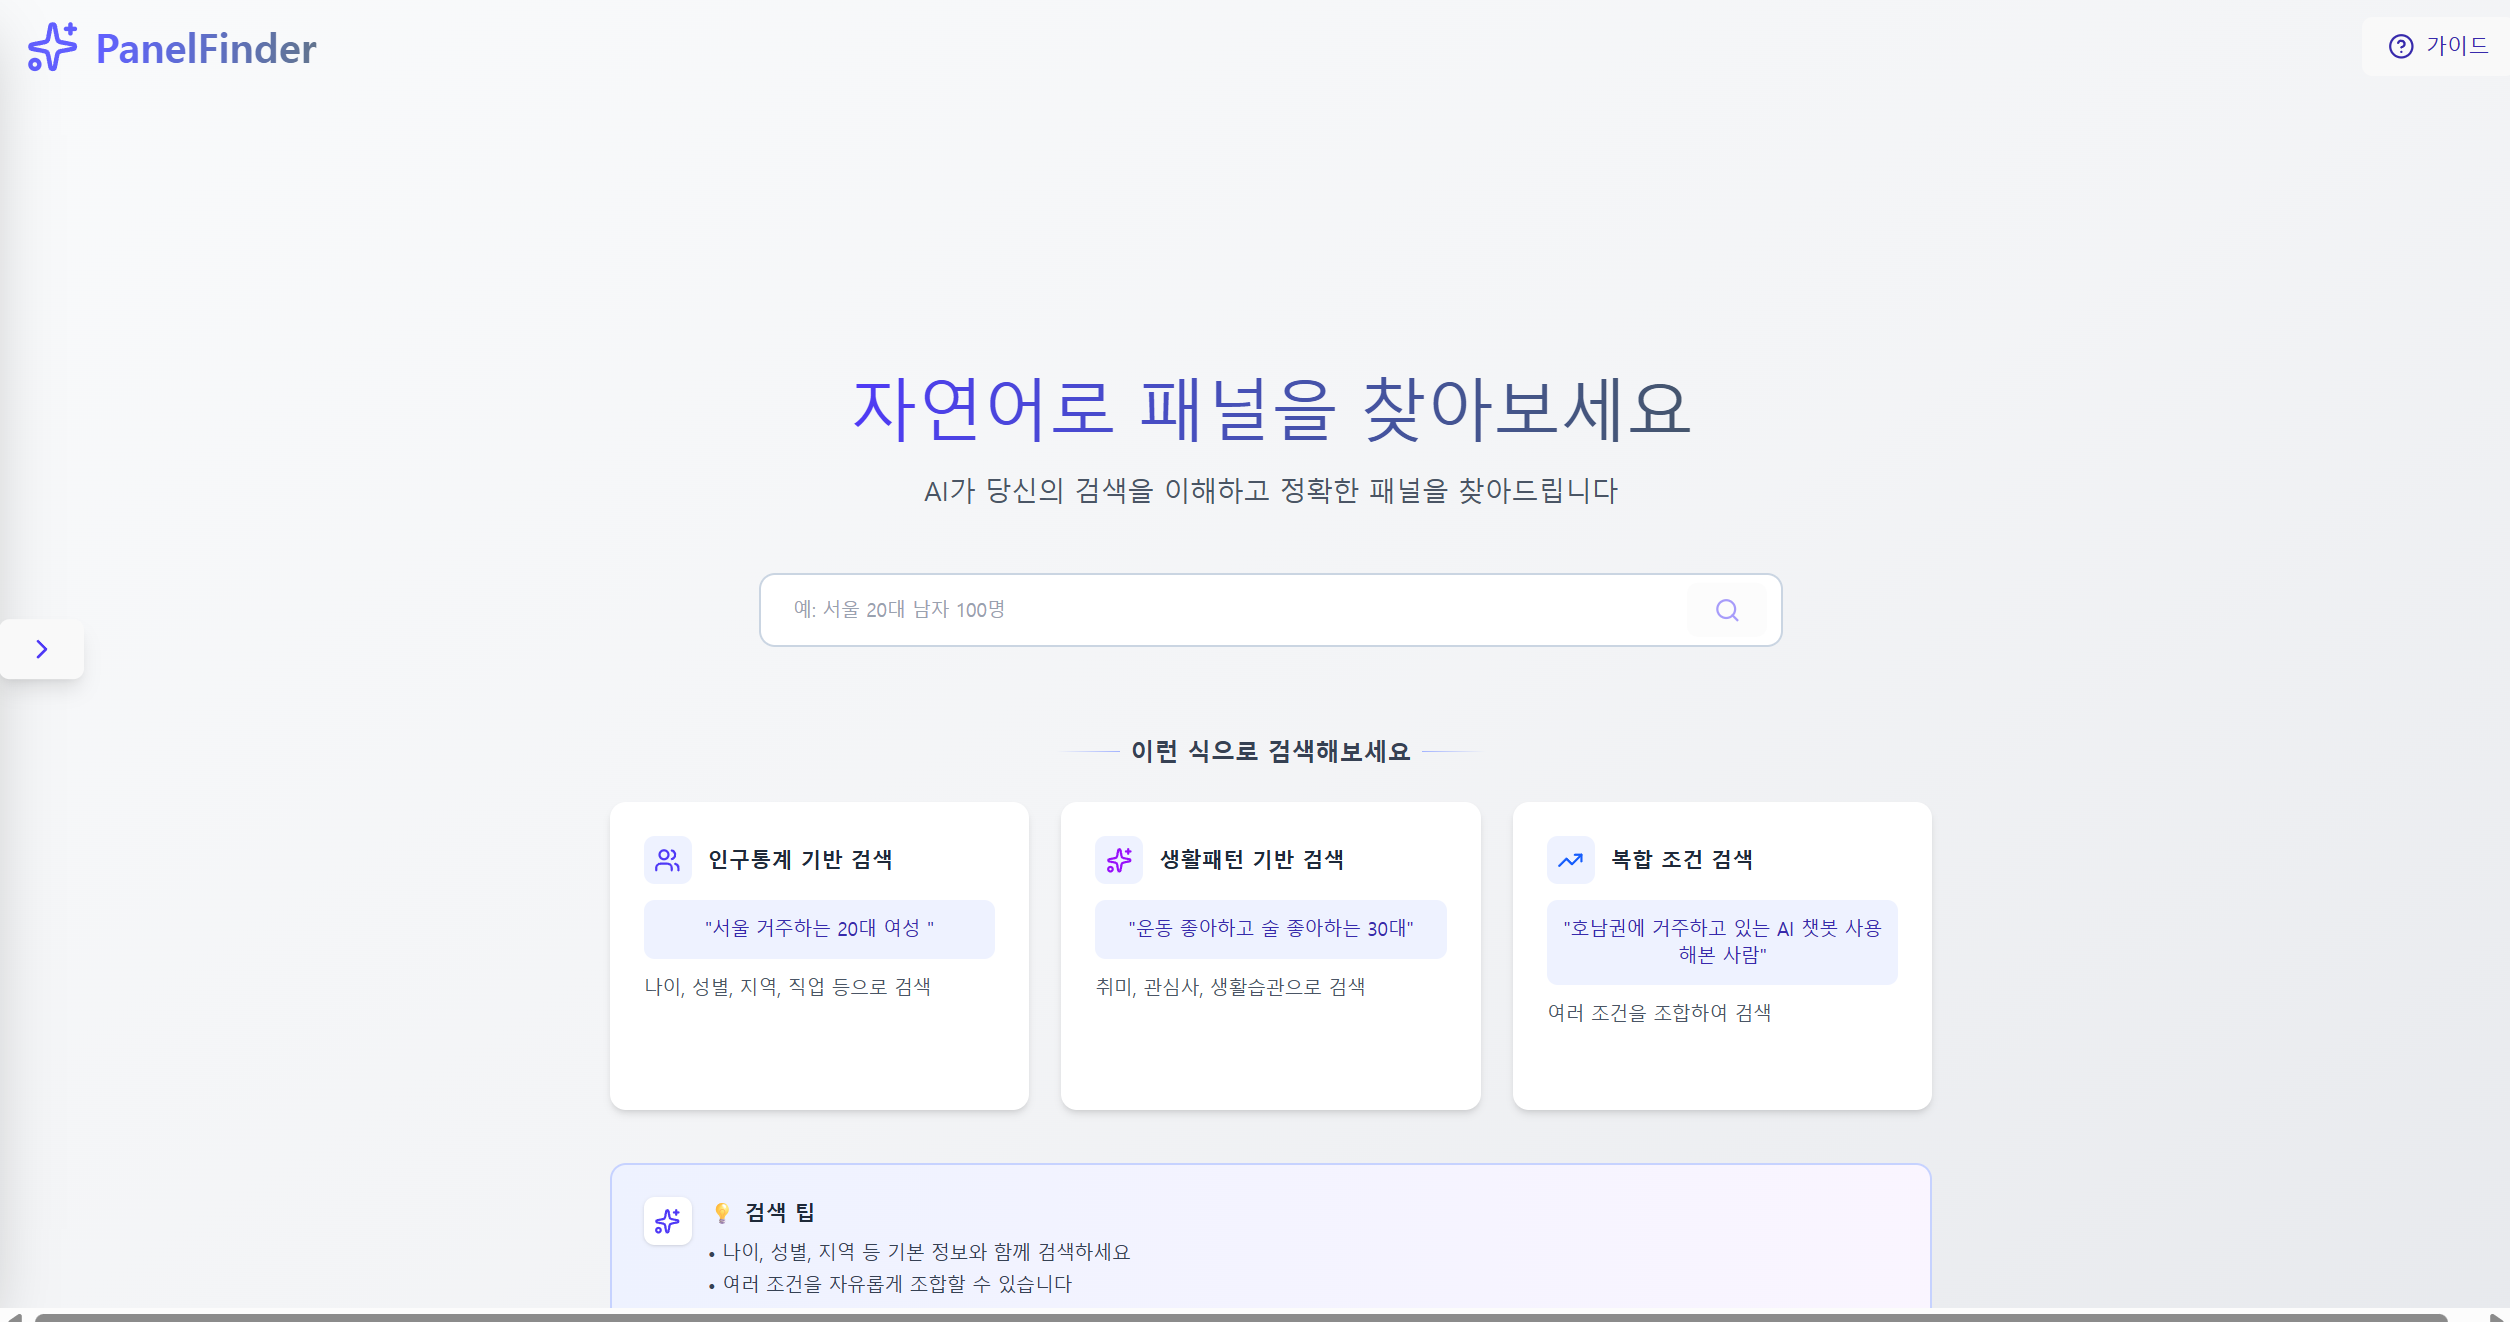
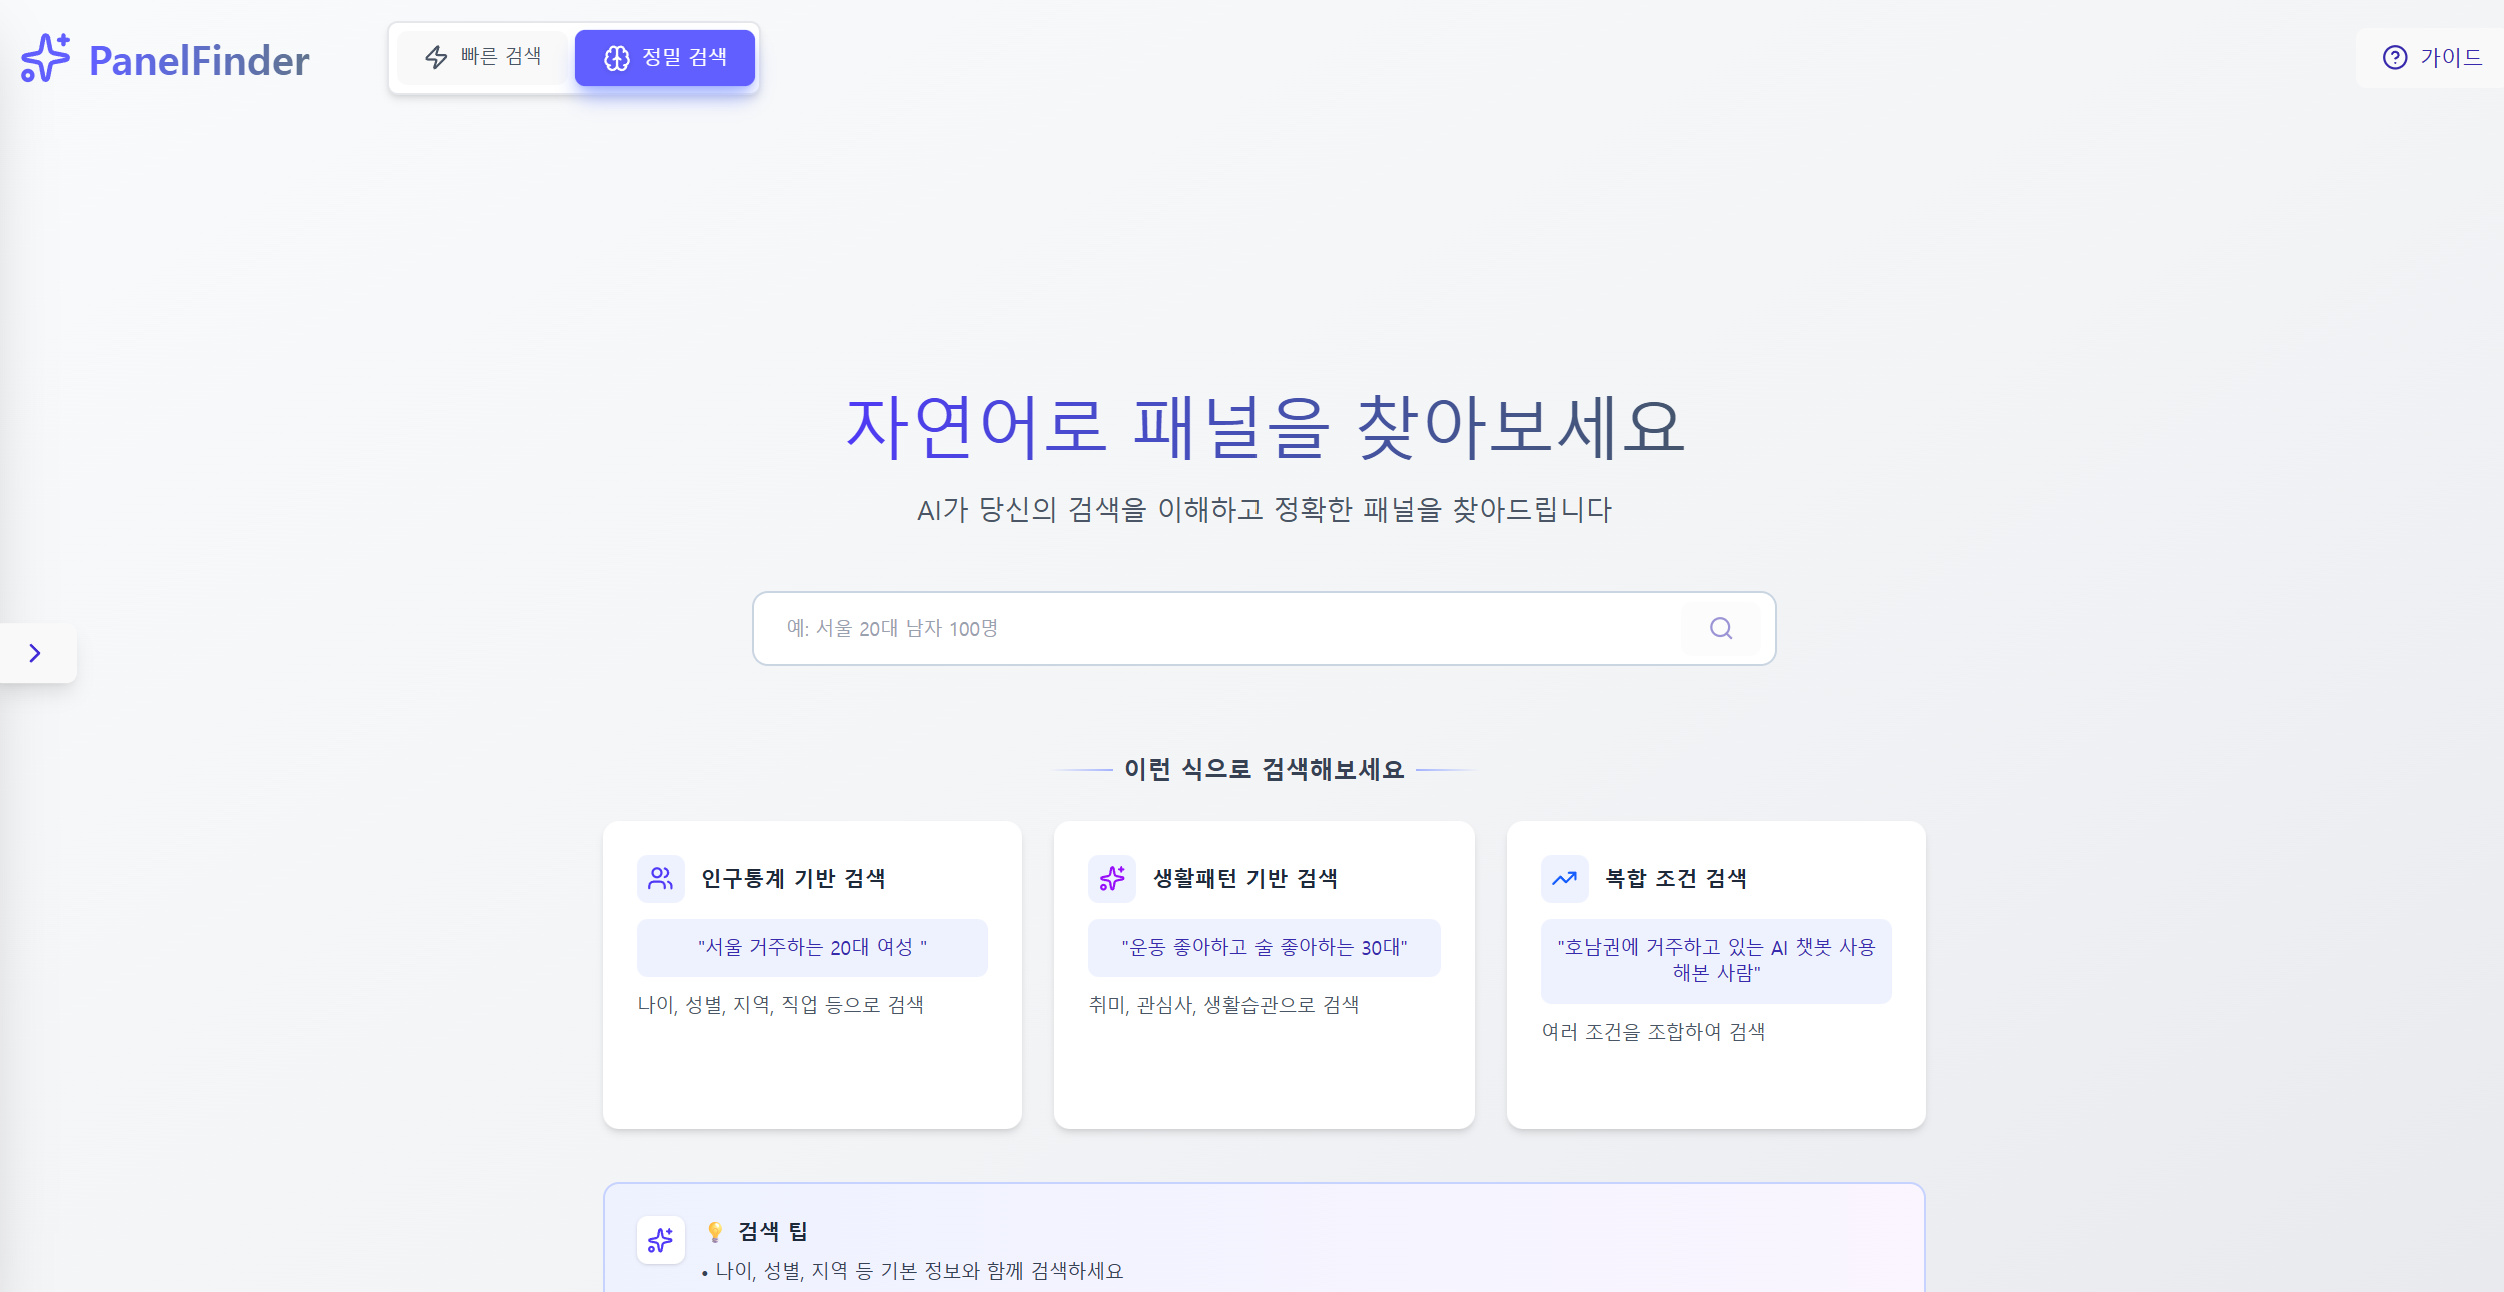
main페이지 모델수정

diff --git a/src/components/GuideModal.jsx b/src/components/GuideModal.jsx
@@ -92,7 +92,7 @@ const guideSlides = [
     ],
   },
   {
-    title: "3-1단계: 검색 결과 - 패널 목록 및 AI 활용 기능",
+    title: "3-1단계: 검색 결과 - 패널 목록",
     description:
       "왼쪽에는 매칭된 패널 목록이, 오른쪽에는 AI 활용 기능과 전체 패널의 평균 정보가 표시됩니다.",
     page: "result-1",
@@ -104,7 +104,7 @@ const guideSlides = [
       },
       {
         position: "right",
-        text: "AI가 추천하는 연관 검색어와 패널의 공통 특성을 자동으로 분석합니다",
+        text: "AI가 추천하는 연관 검색어를 확인할 수 있습니다",
         icon: "🤖",
       },
       {
@@ -120,35 +120,7 @@ const guideSlides = [
     ],
   },
   {
-    title: "3-2단계: 공통 특성 분석",
-    description:
-      "마케팅 전문가를 위한 기능! AI가 검색된 패널들의 공통점을 자동으로 분석합니다.",
-    page: "common",
-    tooltips: [
-      {
-        position: "top",
-        text: "마케팅 타겟 설정에 유용한 인사이트를 제공합니다",
-        icon: "🎯",
-      },
-      {
-        position: "analysis",
-        text: "연령대, 지역, 소비 패턴 등 패널들의 주요 공통점을 파악합니다",
-        icon: "📊",
-      },
-      {
-        position: "marketing",
-        text: "마케팅 캠페인 기획 시 타겟 세그먼트 이해에 활용하세요",
-        icon: "💼",
-      },
-      {
-        position: "insight",
-        text: "AI가 발견한 패턴을 통해 새로운 마케팅 기회를 발견할 수 있습니다",
-        icon: "💡",
-      },
-    ],
-  },
-  {
-    title: "3-3단계: 패널 상세 정보",
+    title: "3-2단계: 패널 상세 정보",
     description: "선택한 패널의 모든 정보를 자세히 확인할 수 있습니다.",
     page: "result-2",
     tooltips: [
@@ -175,7 +147,7 @@ const guideSlides = [
     ],
   },
   {
-    title: "3-4단계: 신뢰도 필터 기능",
+    title: "3-3단계: 신뢰도 필터 기능",
     description:
       "신뢰도 점수로 패널을 필터링하여 원하는 품질의 데이터만 확인할 수 있습니다.",
     page: "result-3",
@@ -198,7 +170,7 @@ const guideSlides = [
     ],
   },
   {
-    title: "3-5단계: 패널 정보 시각화",
+    title: "3-4단계: 패널 정보 시각화",
     description:
       "패널의 주요 정보를 다양한 차트로 시각화하여 한눈에 파악할 수 있습니다.",
     page: "result-4",
@@ -240,6 +212,34 @@ const guideSlides = [
         position: "bottom",
         text: "선택한 키워드로 새로운 검색어를 생성하고\n바로 검색을 시작할 수 있어요",
         icon: "✨",
+      },
+    ],
+  },
+  {
+    title: "5단계: 공통 특성 분석",
+    description:
+      "마케팅 전문가를 위한 기능! AI가 검색된 패널들의 공통점을 자동으로 분석합니다.",
+    page: "common",
+    tooltips: [
+      {
+        position: "top",
+        text: "마케팅 타겟 설정에 유용한 인사이트를 제공합니다",
+        icon: "🎯",
+      },
+      {
+        position: "analysis",
+        text: "연령대, 지역, 소비 패턴 등 패널들의 주요 공통점을 파악합니다",
+        icon: "📊",
+      },
+      {
+        position: "marketing",
+        text: "마케팅 캠페인 기획 시 타겟 세그먼트 이해에 활용하세요",
+        icon: "💼",
+      },
+      {
+        position: "insight",
+        text: "AI가 발견한 패턴을 통해 새로운 마케팅 기회를 발견할 수 있습니다",
+        icon: "💡",
       },
     ],
   },
@@ -341,32 +341,7 @@ function renderPageMockup(pageType) {
           <div className="p-6">
             <img
               src={ResultPage1}
-              alt="패널 목록 및 AI 활용 기능"
-              className="w-full h-auto rounded-xl shadow-2xl border-2 border-indigo-300"
-            />
-          </div>
-        </div>
-      );
-
-    case "common":
-      return (
-        <div className="h-full overflow-y-auto bg-gradient-to-br from-indigo-50 via-purple-50 to-pink-50">
-          <div className="p-6">
-            <div className="mb-4 bg-white rounded-lg p-4 shadow-md border-2 border-indigo-300">
-              <div className="flex items-center gap-3 mb-2">
-                <span className="text-2xl">💼</span>
-                <h4 className="text-lg font-bold text-gray-800">
-                  마케팅 전문가를 위한 인사이트
-                </h4>
-              </div>
-              <p className="text-sm text-gray-600">
-                타겟 고객층의 공통점을 파악하여 효과적인 마케팅 전략을
-                수립하세요
-              </p>
-            </div>
-            <img
-              src={Common}
-              alt="공통 특성 분석"
+              alt="패널 목록"
               className="w-full h-auto rounded-xl shadow-2xl border-2 border-indigo-300"
             />
           </div>
@@ -427,6 +402,31 @@ function renderPageMockup(pageType) {
             <img
               src={RelatedSearchPage}
               alt="연관 검색어 마인드맵"
+              className="w-full h-auto rounded-xl shadow-2xl border-2 border-indigo-300"
+            />
+          </div>
+        </div>
+      );
+
+    case "common":
+      return (
+        <div className="h-full overflow-y-auto bg-gradient-to-br from-indigo-50 via-purple-50 to-pink-50">
+          <div className="p-6">
+            <div className="mb-4 bg-white rounded-lg p-4 shadow-md border-2 border-indigo-300">
+              <div className="flex items-center gap-3 mb-2">
+                <span className="text-2xl">💼</span>
+                <h4 className="text-lg font-bold text-gray-800">
+                  마케팅 전문가를 위한 인사이트
+                </h4>
+              </div>
+              <p className="text-sm text-gray-600">
+                타겟 고객층의 공통점을 파악하여 효과적인 마케팅 전략을
+                수립하세요
+              </p>
+            </div>
+            <img
+              src={Common}
+              alt="공통 특성 분석"
               className="w-full h-auto rounded-xl shadow-2xl border-2 border-indigo-300"
             />
           </div>
@@ -567,7 +567,7 @@ export default function GuideModal({ show, onClose, current, setCurrent }) {
             ) : (
               <button
                 onClick={onClose}
-                className="flex items-center gap-2 px-6 py-2 bg-indigo-600 text-indigo-600 rounded-lg hover:bg-indigo-700 font-bold transition-colors shadow-lg"
+                className="flex items-center gap-2 px-6 py-2 bg-indigo-600 text-indigo-800 rounded-lg hover:bg-indigo-700 font-bold transition-colors shadow-lg"
               >
                 시작하기 🚀
               </button>

diff --git a/src/pages/MainPage.jsx b/src/pages/MainPage.jsx
@@ -13,6 +13,8 @@ import {
   ChevronLeft,
   History,
   X,
+  Zap,
+  Brain,
 } from "lucide-react";
 
 import GuideModal from "@components/GuideModal";
@@ -31,6 +33,9 @@ function MainPage() {
   const [showHistory, setShowHistory] = useState(false);
   const [searchHistory, setSearchHistory] = useState([]);
 
+  // 말풍선 툴팁 상태
+  const [showTooltip, setShowTooltip] = useState(false);
+
   // 컴포넌트 마운트 시 로컬스토리지에서 히스토리 불러오기
   useEffect(() => {
     const savedHistory = localStorage.getItem("searchHistory");
@@ -38,6 +43,17 @@ function MainPage() {
       setSearchHistory(JSON.parse(savedHistory));
     }
   }, []);
+
+  // 말풍선 자동 숨김 타이머
+  useEffect(() => {
+    if (showTooltip) {
+      const timer = setTimeout(() => {
+        setShowTooltip(false);
+      }, 5000); // 5초 후 자동 숨김
+
+      return () => clearTimeout(timer);
+    }
+  }, [showTooltip]);
 
   const onSearch = () => {
     if (!query.trim()) return;
@@ -111,11 +127,101 @@ function MainPage() {
     localStorage.removeItem("searchHistory");
   };
 
+  const handleModelChange = (model) => {
+    setSelectedModel(model);
+    setShowTooltip(true);
+  };
+
+  // 검색 모델 설명
+  const modelDescriptions = {
+    fast: {
+      icon: <Zap className="w-4 h-4" />,
+      title: "빠른 검색",
+      description: "신속한 패널 검색으로 즉시 결과를 확인하세요",
+    },
+    deep: {
+      icon: <Brain className="w-4 h-4" />,
+      title: "정밀 검색",
+      description: "AI가 깊이 분석하여 더욱 정확한 패널을 찾아드립니다",
+    },
+  };
+
   return (
     <>
       <div className="min-h-screen w-screen bg-gradient-to-br from-gray-50 via-gray-100 to-gray-200 flex flex-col relative">
         <header className="p-5 flex items-center gap-3 justify-between">
-          <HeaderBar />
+          <div className="flex items-center gap-4">
+            <HeaderBar />
+
+            {/* 검색 모델 선택 버튼 */}
+            <div className="relative">
+              <div className="flex gap-2 bg-white rounded-lg p-1.5 shadow-md border-2 border-gray-200">
+                <button
+                  onClick={() => handleModelChange("fast")}
+                  className={`flex items-center gap-2 px-5 py-2.5 rounded-md transition-all font-semibold ${
+                    selectedModel === "fast"
+                      ? "bg-gradient-to-r from-indigo-500 to-indigo-500 text-white shadow-lg shadow-indigo-300 scale-105 border-2 border-indigo-400"
+                      : "text-gray-600 hover:bg-gray-100 border-2 border-transparent"
+                  }`}
+                >
+                  <Zap
+                    className={`w-5 h-5 ${
+                      selectedModel === "fast" ? "drop-shadow-sm" : ""
+                    }`}
+                  />
+                  <span className="text-sm">빠른 검색</span>
+                </button>
+                <button
+                  onClick={() => handleModelChange("deep")}
+                  className={`flex items-center gap-2 px-5 py-2.5 rounded-md transition-all font-semibold ${
+                    selectedModel === "deep"
+                      ? "bg-gradient-to-r from-indigo-500 to-indigo-500 text-white shadow-lg shadow-indigo-300 scale-105 border-2 border-indigo-400"
+                      : "text-gray-600 hover:bg-gray-100 border-2 border-transparent"
+                  }`}
+                >
+                  <Brain
+                    className={`w-5 h-5 ${
+                      selectedModel === "deep" ? "drop-shadow-sm" : ""
+                    }`}
+                  />
+                  <span className="text-sm">정밀 검색</span>
+                </button>
+              </div>
+
+              {/* 말풍선 툴팁 */}
+              {showTooltip && (
+                <div className="absolute top-full left-1/2 -translate-x-1/2 mt-3 z-50 animate-in fade-in slide-in-from-top-2 duration-300">
+                  <div className="relative bg-white rounded-lg shadow-xl border-2 border-indigo-200 p-4 w-72">
+                    {/* 위쪽 화살표 */}
+                    <div className="absolute -top-2 left-1/2 -translate-x-1/2 w-4 h-4 bg-white border-t-2 border-l-2 border-indigo-200 rotate-45"></div>
+
+                    {/* 닫기 버튼 */}
+                    <button
+                      onClick={() => setShowTooltip(false)}
+                      className="absolute top-2 right-2 p-1 hover:bg-gray-100 rounded transition-colors"
+                    >
+                      <X className="w-4 h-4 text-gray-400" />
+                    </button>
+
+                    {/* 내용 */}
+                    <div className="flex items-start gap-3">
+                      <div className="p-2 bg-indigo-50 rounded-lg flex-shrink-0">
+                        {modelDescriptions[selectedModel].icon}
+                      </div>
+                      <div className="text-left">
+                        <h4 className="font-bold text-gray-800 mb-1">
+                          {modelDescriptions[selectedModel].title}
+                        </h4>
+                        <p className="text-sm text-gray-600 leading-relaxed">
+                          {modelDescriptions[selectedModel].description}
+                        </p>
+                      </div>
+                    </div>
+                  </div>
+                </div>
+              )}
+            </div>
+          </div>
 
           <button
             onClick={() => setShowGuide(true)}
@@ -129,7 +235,7 @@ function MainPage() {
         {/* 히스토리 토글 버튼 */}
         <button
           onClick={() => setShowHistory(!showHistory)}
-          className="fixed left-0 top-1/2 -translate-y-1/2 bg-indigo-600 text-indigo-600 p-3 rounded-r-lg shadow-lg hover:bg-indigo-700 transition-all z-40"
+          className="fixed left-0 top-1/2 -translate-y-1/2 bg-indigo-600 text-indigo-700 p-3 rounded-r-lg shadow-lg hover:bg-indigo-700 transition-all z-40"
           style={{ left: showHistory ? "320px" : "0" }}
         >
           {showHistory ? (
@@ -216,11 +322,6 @@ function MainPage() {
 
           {/* 검색 예시 섹션 */}
           <div className="mt-16 w-full max-w-5xl px-4">
-            {/* ✅ 검색 모델 드롭다운 */}
-            <SearchModelDropdown
-              value={selectedModel}
-              onChange={setSelectedModel}
-            />
             <div className="flex items-center justify-center gap-2 mb-6">
               <div className="h-px w-12 bg-gradient-to-r from-transparent to-indigo-300"></div>
               <h2 className="text-lg font-semibold text-gray-700">
